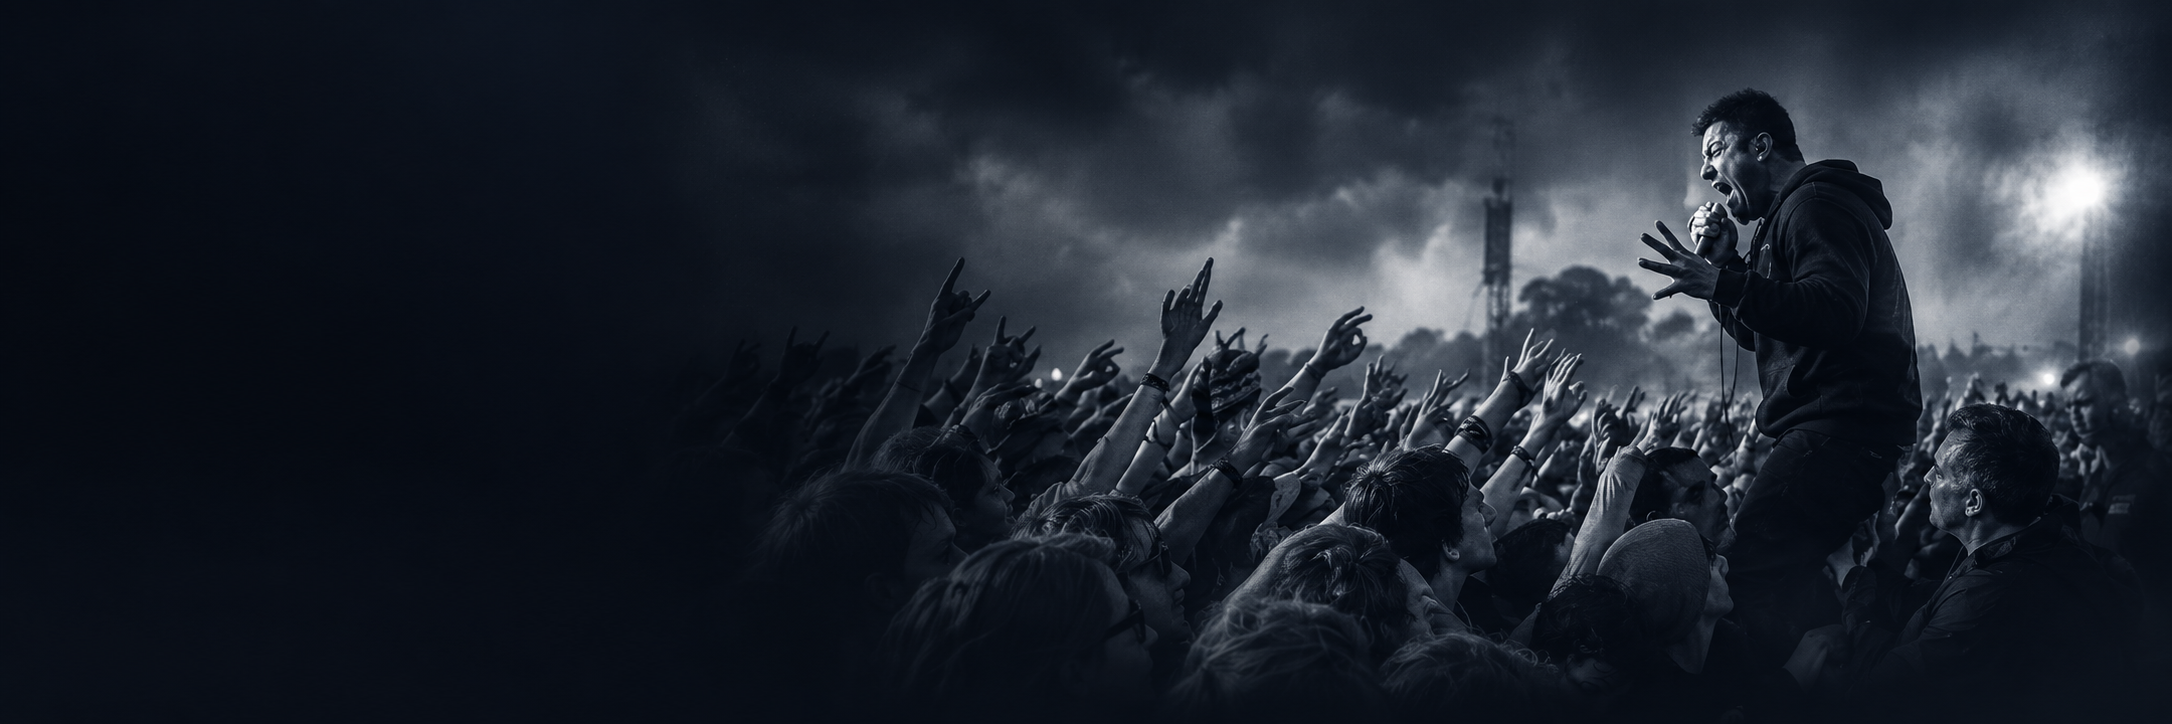
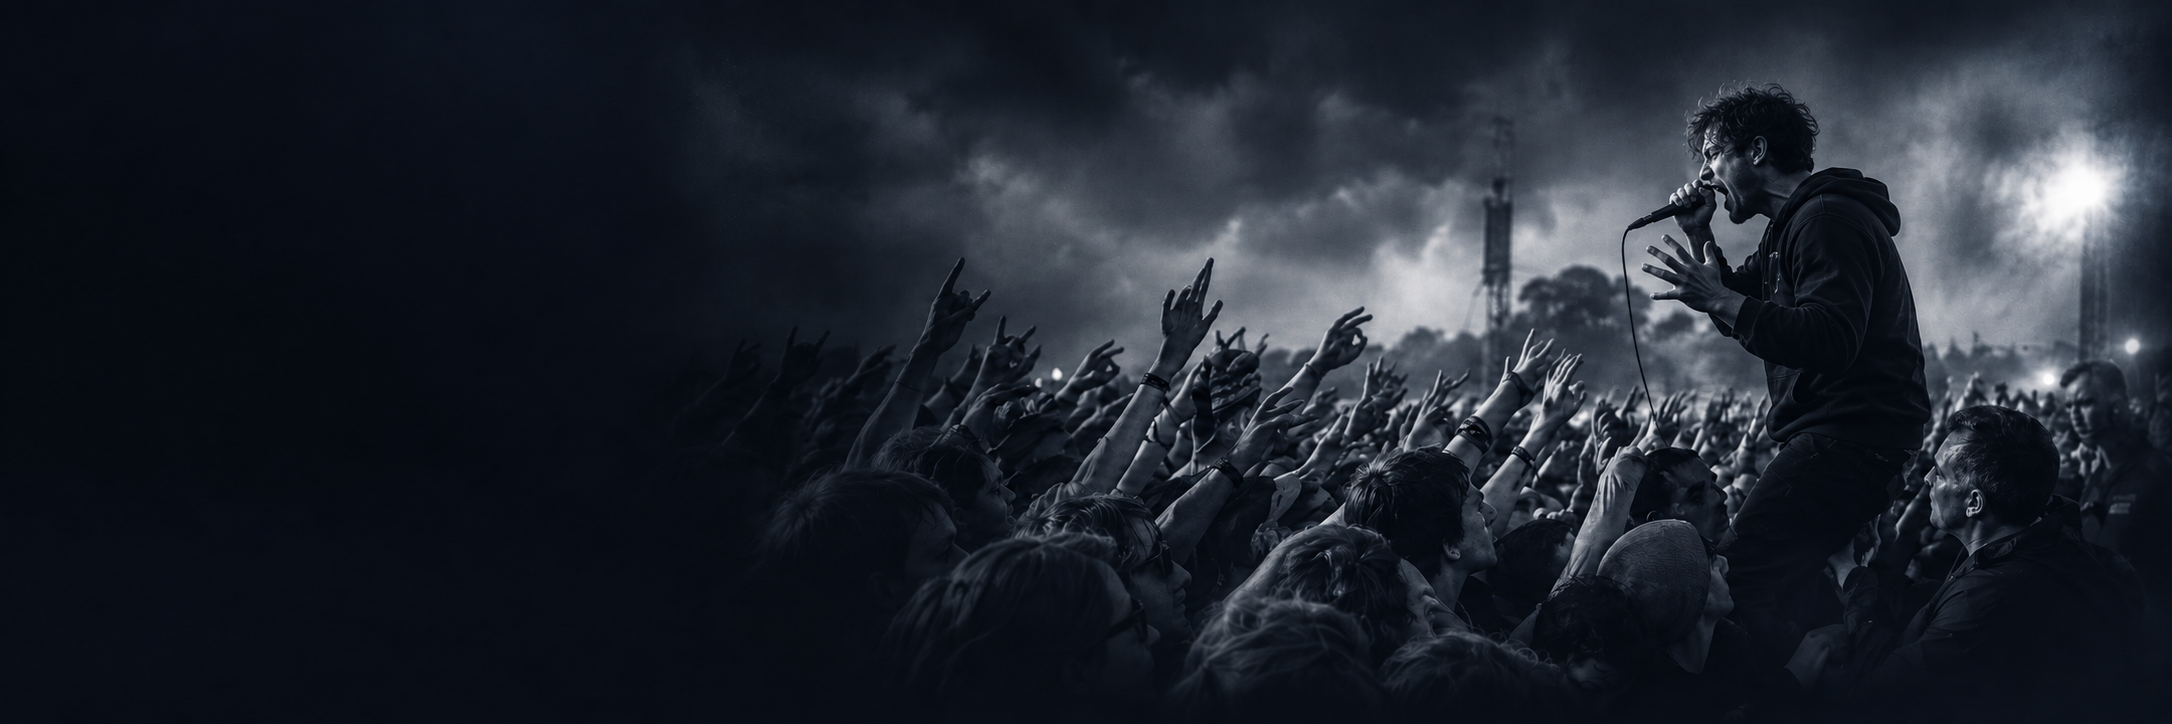
Add files via upload

diff --git a/app.js b/app.js
@@ -3,7 +3,7 @@ let byName = new Map();
 let deferredInstall = null;
 let vibeData = { genres: [], styles: [], moods: [] };
 
-const APP_VERSION = '0.14.0';
+const APP_VERSION = '0.15.1';
 const storeKey = 'atm-mobile-v01'; // Intentionally stable so personal data survives app updates.
 const artworkCacheKey = 'atm-mobile-artwork-v2';
 const ARTWORK_ENDPOINT = 'https://atm-artwork.zanderiii88.workers.dev/';
@@ -41,6 +41,14 @@ state.vibe = { genres: [], styles: [], moods: [], ...(state.vibe || {}) };
 state.listSort = { favourite: 'az', explore: 'az', ...(state.listSort || {}) };
 state.searchRecent = Array.isArray(state.searchRecent) ? state.searchRecent : [];
 if (!state.searchRecent.length && Array.isArray(state.recent)) state.searchRecent = state.recent.filter(x => x.action === 'discover').map(x => x.artist).slice(0, 12);
+const legacyMusicForLabels = {
+  'Need to Calm Down': 'Calm Down',
+  'Need to Wake Up': 'Wake Up',
+  'Getting Hyped': 'Get Hyped',
+  'Getting Ready to Go Out': 'Going Out',
+  'That First Coffee': 'First Coffee',
+};
+state.musicForPreset = legacyMusicForLabels[state.musicForPreset] || state.musicForPreset || '';
 
 let artworkCache = loadArtworkCache();
 const artworkPending = new Map();
@@ -315,7 +323,7 @@ function homeCatalogueCard(count) {
 }
 function whatsNewCard() {
   if (state.whatsNewDismissed === APP_VERSION) return '';
-  return `<section class="section whats-new-card"><button id="dismissWhatsNew" class="whats-new-dismiss" type="button" aria-label="Dismiss What’s New">×</button><div class="whats-new-copy"><div class="whats-new-kicker"><span class="new-badge">NEW</span><span>ATM Mixtapes</span></div><h2>Now on YouTube Music + Spotify.</h2><p>Road Trip mixtapes sit alongside <b>Head Nodding</b>, <b>Pop Rocks</b>, <b>Air Guitar</b> and <b>Aotearoa Calling</b> inside <b>Music For...</b>.</p></div><button id="whatsNewPlaylists" class="btn primary whats-new-action">Explore ATM Mixtapes →</button></section>`;
+  return `<section class="section whats-new-card"><button id="dismissWhatsNew" class="whats-new-dismiss" type="button" aria-label="Dismiss What’s New">×</button><div class="whats-new-copy"><div class="whats-new-kicker"><span class="new-badge">NEW</span><span>More ATM Mixtapes</span></div><h2>Music For... has filled out.</h2><p>Twenty-one more moments now have curated <b>YouTube Music</b> and <b>Spotify</b> mixtapes, including <b>Dancing… In The Pit</b>.</p></div><button id="whatsNewPlaylists" class="btn primary whats-new-action">Explore Music For... →</button></section>`;
 }
 
 function home() {
@@ -670,26 +678,27 @@ const musicForPresets = [
   { group: 'ATM Playlists', label: 'Pop Rocks', blurb: 'Pop-rock throwbacks with big hooks, bright guitars and an 80s-to-early-2000s streak.', target: { energy: 7, aggression: 4, darkness: 3, rhythm: 7, accessibility: 9, organic_electronic: 3 }, genres: ['Rock', 'Pop'], words: ['pop rock', 'power pop', 'alternative rock', 'new wave', 'britpop', 'pop punk', 'arena rock'], youtubePlaylist: 'https://music.youtube.com/playlist?list=PLb968UxgeDzU', spotifyPlaylist: 'https://open.spotify.com/playlist/4GVd8XkKRF6kVAnMvZodvJ', strictGenre: true },
   { group: 'ATM Playlists', label: 'Air Guitar', blurb: 'Riffs, solos and guitar-heavy rock built for playing along without an instrument.', target: { energy: 8, aggression: 6, darkness: 4, rhythm: 7, accessibility: 7, organic_electronic: 2 }, genres: ['Rock', 'Metal', 'Punk / Hardcore'], words: ['hard rock', 'classic rock', 'alternative rock', 'heavy metal', 'guitar', 'riff', 'arena rock', 'grunge'], youtubePlaylist: 'https://music.youtube.com/playlist?list=PLPDABf3UHXhA', spotifyPlaylist: 'https://open.spotify.com/playlist/2HV2nOpWIISYgNTsRWsurE', strictGenre: true },
   { group: 'ATM Playlists', label: 'Aotearoa Calling', blurb: 'An ATM-curated trip through music from Aotearoa New Zealand, across eras and styles.', youtubePlaylist: 'https://music.youtube.com/playlist?list=PLFTCcEuVOWik', spotifyPlaylist: 'https://open.spotify.com/playlist/7BXylCipqY8eoimCvPAJbD', playlistOnly: true },
-  { group: 'Time & place', label: 'Rainy Days', blurb: 'Reflective, textured and a little grey around the edges.', target: { energy: 4, darkness: 6, accessibility: 6 }, words: ['reflective', 'melancholic', 'atmospheric', 'dream', 'intimate'] },
-  { group: 'Time & place', label: 'Sunday Morning', blurb: 'Warm, unhurried listening for a slower start.', target: { energy: 3, aggression: 1, darkness: 3, accessibility: 7 }, words: ['warm', 'gentle', 'serene', 'laid-back', 'soul', 'folk'] },
-  { group: 'Time & place', label: '3AM', blurb: 'Nocturnal, inward-looking and slightly strange.', target: { energy: 4, darkness: 8, experimental: 7 }, words: ['nocturnal', 'hypnotic', 'ambient', 'dream', 'introspective'] },
-  { group: 'Time & place', label: 'Drifting Off', blurb: 'Very quiet, soft-edged ambient music for letting the day disappear.', target: { energy: 1, aggression: 1, darkness: 3, experimental: 6, rhythm: 2, organic_electronic: 9 }, genres: ['Electronic'], words: ['ambient', 'drone', 'minimal', 'serene', 'meditative', 'gentle', 'quiet'] },
-  { group: 'Time & place', label: 'Sunset', blurb: 'Glowing, spacious music for the end of the day.', target: { energy: 5, darkness: 3, accessibility: 7 }, words: ['warm', 'dreamy', 'serene', 'lush', 'psychedelic'] },
-  { group: 'Time & place', label: 'Night Driving', blurb: 'Propulsive, cinematic and built for lights passing by.', target: { energy: 7, darkness: 6, rhythm: 8, organic_electronic: 8 }, words: ['nocturnal', 'driving', 'synth', 'electronic', 'cinematic'] },
-  { group: 'Going out', label: 'Getting Ready to Go Out', blurb: 'Confident, bright and steadily raising the temperature.', target: { energy: 8, rhythm: 8, accessibility: 8 }, words: ['confident', 'euphoric', 'dance', 'pop', 'funk'] },
-  { group: 'Going out', label: 'After the Party', blurb: 'The comedown: hazy, tender and quietly nocturnal.', target: { energy: 3, darkness: 6, accessibility: 6 }, words: ['hazy', 'intimate', 'melancholic', 'nocturnal', 'ambient'] },
-  { group: 'Time & place', label: 'That First Coffee', blurb: 'A gentle lift before the day properly begins.', target: { energy: 5, aggression: 1, darkness: 2, accessibility: 8 }, words: ['warm', 'playful', 'soulful', 'bright', 'acoustic'] },
-  { group: 'Heart stuff', label: 'Heartbreak', blurb: 'Songs for the raw bit, the reflective bit and everything after.', target: { energy: 4, darkness: 7, accessibility: 8 }, words: ['heartbreak', 'melancholic', 'romantic', 'vulnerable', 'sad'] },
-  { group: 'Heart stuff', label: 'Falling in Love', blurb: 'Warm, open-hearted and a little bit giddy.', target: { energy: 6, darkness: 2, accessibility: 8 }, words: ['romantic', 'joyful', 'warm', 'dreamy', 'euphoric'] },
-  { group: 'Heart stuff', label: '"Bedtime" 😉', blurb: 'Low-lit, intimate and decidedly not about going straight to sleep.', target: { energy: 4, aggression: 1, darkness: 5, rhythm: 6, accessibility: 8 }, words: ['sensual', 'sultry', 'intimate', 'romantic', 'r&b', 'neo-soul', 'trip hop', 'downtempo'] },
-  { group: 'Heart stuff', label: 'Moping', blurb: 'Low-energy company for leaning into it.', target: { energy: 2, darkness: 7, accessibility: 7 }, words: ['melancholic', 'sad', 'intimate', 'reflective', 'slow'] },
-  { group: 'Heart stuff', label: 'Brooding', blurb: 'Dark, tense and deliberate rather than defeated.', target: { energy: 5, aggression: 5, darkness: 9 }, words: ['brooding', 'dark', 'ominous', 'tense', 'gothic'] },
-  { group: 'Change the energy', label: 'Need to Wake Up', blurb: 'Immediate, bright and hard to sleep through.', target: { energy: 9, rhythm: 8, accessibility: 8 }, words: ['energetic', 'urgent', 'bright', 'punk', 'dance'] },
-  { group: 'Change the energy', label: 'Need to Calm Down', blurb: 'Soft edges, low intensity and room to breathe.', target: { energy: 2, aggression: 1, darkness: 3 }, words: ['calm', 'serene', 'ambient', 'gentle', 'minimal'] },
-  { group: 'Change the energy', label: 'Getting Hyped', blurb: 'Big energy, momentum and zero interest in subtlety.', target: { energy: 10, aggression: 8, rhythm: 9 }, words: ['hype', 'intense', 'triumphant', 'rap', 'metal'] },
-  { group: 'Dancing', label: 'Dancing… to Pop', blurb: 'Hooks first: glossy, immediate and properly danceable.', target: { energy: 8, rhythm: 9, accessibility: 9 }, genres: ['Pop'], words: ['dance-pop', 'electropop', 'synthpop', 'disco'] },
-  { group: 'Dancing', label: 'Dancing… to Funk & Disco', blurb: 'Basslines, groove and a bit of sparkle.', target: { energy: 8, rhythm: 10, accessibility: 8 }, words: ['funk', 'disco', 'boogie', 'soul'] },
-  { group: 'Dancing', label: 'Dancing… to House', blurb: 'Four-on-the-floor movement from warm to euphoric.', target: { energy: 8, rhythm: 10, organic_electronic: 9 }, words: ['house', 'garage', 'club', 'dance'] },
+  { group: 'Time & place', label: 'Rainy Days', blurb: 'Reflective, textured and a little grey around the edges.', target: { energy: 4, darkness: 6, accessibility: 6 }, words: ['reflective', 'melancholic', 'atmospheric', 'dream', 'intimate'], youtubePlaylist: 'https://music.youtube.com/playlist?list=PLXIBtIFPFEkw', spotifyPlaylist: 'https://open.spotify.com/playlist/0jlP53sNEcvLtI2ISicFFG' },
+  { group: 'Time & place', label: 'Sunday Morning', blurb: 'Warm, unhurried listening for a slower start.', target: { energy: 3, aggression: 1, darkness: 3, accessibility: 7 }, words: ['warm', 'gentle', 'serene', 'laid-back', 'soul', 'folk'], youtubePlaylist: 'https://music.youtube.com/playlist?list=PLH1M4H7OxG-U', spotifyPlaylist: 'https://open.spotify.com/playlist/0PIPElihWPa8jQgHNjny7m' },
+  { group: 'Time & place', label: '3AM', blurb: 'Nocturnal, inward-looking and slightly strange.', target: { energy: 4, darkness: 8, experimental: 7 }, words: ['nocturnal', 'hypnotic', 'ambient', 'dream', 'introspective'], youtubePlaylist: 'https://music.youtube.com/playlist?list=PLfBhUHe4j7uM', spotifyPlaylist: 'https://open.spotify.com/playlist/2x0TavgHYPezi8ct1ckqJG' },
+  { group: 'Time & place', label: 'Drifting Off', blurb: 'Very quiet, soft-edged ambient music for letting the day disappear.', target: { energy: 1, aggression: 1, darkness: 3, experimental: 6, rhythm: 2, organic_electronic: 9 }, genres: ['Electronic'], words: ['ambient', 'drone', 'minimal', 'serene', 'meditative', 'gentle', 'quiet'], youtubePlaylist: 'https://music.youtube.com/playlist?list=PLU1EIlMLfFoU', spotifyPlaylist: 'https://open.spotify.com/playlist/5jIWeJI5Ip5vWFqP8vkxvd' },
+  { group: 'Time & place', label: 'Sunset', blurb: 'Glowing, spacious music for the end of the day.', target: { energy: 5, darkness: 3, accessibility: 7 }, words: ['warm', 'dreamy', 'serene', 'lush', 'psychedelic'], youtubePlaylist: 'https://music.youtube.com/playlist?list=PLNRDgrhWkjWM', spotifyPlaylist: 'https://open.spotify.com/playlist/4Vxa1uppKCtBUeuaOXR2x5' },
+  { group: 'Time & place', label: 'Night Driving', blurb: 'Propulsive, cinematic and built for lights passing by.', target: { energy: 7, darkness: 6, rhythm: 8, organic_electronic: 8 }, words: ['nocturnal', 'driving', 'synth', 'electronic', 'cinematic'], youtubePlaylist: 'https://music.youtube.com/playlist?list=PLMUTDGCHNHc0', spotifyPlaylist: 'https://open.spotify.com/playlist/5b433sEfE631EDBaUcmX75' },
+  { group: 'Going out', label: 'Going Out', blurb: 'Confident, bright and steadily raising the temperature.', target: { energy: 8, rhythm: 8, accessibility: 8 }, words: ['confident', 'euphoric', 'dance', 'pop', 'funk'], youtubePlaylist: 'https://music.youtube.com/playlist?list=PLGY6Thj4wXms', spotifyPlaylist: 'https://open.spotify.com/playlist/1VBk3tROqwzFbuGd1yycOr' },
+  { group: 'Going out', label: 'After the Party', blurb: 'The comedown: hazy, tender and quietly nocturnal.', target: { energy: 3, darkness: 6, accessibility: 6 }, words: ['hazy', 'intimate', 'melancholic', 'nocturnal', 'ambient'], youtubePlaylist: 'https://music.youtube.com/playlist?list=PLamfhN9vN29Q', spotifyPlaylist: 'https://open.spotify.com/playlist/3ZB7JWgZ06Z7AoFhtktVJc' },
+  { group: 'Time & place', label: 'First Coffee', blurb: 'A gentle lift before the day properly begins.', target: { energy: 5, aggression: 1, darkness: 2, accessibility: 8 }, words: ['warm', 'playful', 'soulful', 'bright', 'acoustic'], youtubePlaylist: 'https://music.youtube.com/playlist?list=PLJ81m9FfymXI', spotifyPlaylist: 'https://open.spotify.com/playlist/43GUo3NuEkjz0wEGMlDAI5' },
+  { group: 'Heart stuff', label: 'Heartbreak', blurb: 'Songs for the raw bit, the reflective bit and everything after.', target: { energy: 4, darkness: 7, accessibility: 8 }, words: ['heartbreak', 'melancholic', 'romantic', 'vulnerable', 'sad'], youtubePlaylist: 'https://music.youtube.com/playlist?list=PLXTamMNqlNmg', spotifyPlaylist: 'https://open.spotify.com/playlist/3dP40tDl9y2qMTttceygLE' },
+  { group: 'Heart stuff', label: 'Falling in Love', blurb: 'Warm, open-hearted and a little bit giddy.', target: { energy: 6, darkness: 2, accessibility: 8 }, words: ['romantic', 'joyful', 'warm', 'dreamy', 'euphoric'], youtubePlaylist: 'https://music.youtube.com/playlist?list=PLVmAQ-_0-4ss', spotifyPlaylist: 'https://open.spotify.com/playlist/3g0S4GpE0RgZpkcSXUVvNI' },
+  { group: 'Heart stuff', label: '"Bedtime" 😉', blurb: 'Low-lit, intimate and decidedly not about going straight to sleep.', target: { energy: 4, aggression: 1, darkness: 5, rhythm: 6, accessibility: 8 }, words: ['sensual', 'sultry', 'intimate', 'romantic', 'r&b', 'neo-soul', 'trip hop', 'downtempo'], youtubePlaylist: 'https://music.youtube.com/playlist?list=PLdK4ir7TI1-E', spotifyPlaylist: 'https://open.spotify.com/playlist/2BTHOrlVO5IBTLSabjfBrO' },
+  { group: 'Heart stuff', label: 'Moping', blurb: 'Low-energy company for leaning into it.', target: { energy: 2, darkness: 7, accessibility: 7 }, words: ['melancholic', 'sad', 'intimate', 'reflective', 'slow'], youtubePlaylist: 'https://music.youtube.com/playlist?list=PLdAlAvVNzOPs', spotifyPlaylist: 'https://open.spotify.com/playlist/51Ru63cQEuN6uErS2iKHWD' },
+  { group: 'Heart stuff', label: 'Brooding', blurb: 'Dark, tense and deliberate rather than defeated.', target: { energy: 5, aggression: 5, darkness: 9 }, words: ['brooding', 'dark', 'ominous', 'tense', 'gothic'], youtubePlaylist: 'https://music.youtube.com/playlist?list=PLcHkTY80cb6Y', spotifyPlaylist: 'https://open.spotify.com/playlist/2GeU36D63Nc5Lv7Gtkey9h' },
+  { group: 'Change the energy', label: 'Wake Up', blurb: 'Immediate, bright and hard to sleep through.', target: { energy: 9, rhythm: 8, accessibility: 8 }, words: ['energetic', 'urgent', 'bright', 'punk', 'dance'], youtubePlaylist: 'https://music.youtube.com/playlist?list=PLLYqMET6grw0', spotifyPlaylist: 'https://open.spotify.com/playlist/2R4BfI4Cm1jCTiLjQf3MTQ' },
+  { group: 'Change the energy', label: 'Calm Down', blurb: 'Soft edges, low intensity and room to breathe.', target: { energy: 2, aggression: 1, darkness: 3 }, words: ['calm', 'serene', 'ambient', 'gentle', 'minimal'], youtubePlaylist: 'https://music.youtube.com/playlist?list=PLb_wPPgL3O6M', spotifyPlaylist: 'https://open.spotify.com/playlist/24PlChrzkAXye37T6pp1bT' },
+  { group: 'Change the energy', label: 'Get Hyped', blurb: 'Big energy, momentum and zero interest in subtlety.', target: { energy: 10, aggression: 8, rhythm: 9 }, words: ['hype', 'intense', 'triumphant', 'rap', 'metal'], youtubePlaylist: 'https://music.youtube.com/playlist?list=PLftVXCtkJKmw', spotifyPlaylist: 'https://open.spotify.com/playlist/6GlldHLXteTEiBKx3pTO5k' },
+  { group: 'Dancing', label: 'Dancing… In The Pit', blurb: 'Heavy, physical and built for the part where standing still is no longer an option.', target: { energy: 10, aggression: 10, darkness: 7, rhythm: 9, accessibility: 6, organic_electronic: 2 }, genres: ['Punk / Hardcore', 'Metal', 'Rock'], words: ['hardcore', 'metalcore', 'post-hardcore', 'crossover thrash', 'nu metal', 'mosh', 'breakdown', 'heavy', 'aggressive'], youtubePlaylist: 'https://music.youtube.com/playlist?list=PLectVW8n-XR0', spotifyPlaylist: 'https://open.spotify.com/playlist/132GxRl7lrvqgGnFeubZed', strictGenre: true },
+  { group: 'Dancing', label: 'Dancing… to Pop', blurb: 'Hooks first: glossy, immediate and properly danceable.', target: { energy: 8, rhythm: 9, accessibility: 9 }, genres: ['Pop'], words: ['dance-pop', 'electropop', 'synthpop', 'disco'], youtubePlaylist: 'https://music.youtube.com/playlist?list=PLFYfnyjPL6ZI', spotifyPlaylist: 'https://open.spotify.com/playlist/1iB2W0wICxf9IP9Zu9WEIG' },
+  { group: 'Dancing', label: 'Dancing… to Funk & Disco', blurb: 'Basslines, groove and a bit of sparkle.', target: { energy: 8, rhythm: 10, accessibility: 8 }, words: ['funk', 'disco', 'boogie', 'soul'], youtubePlaylist: 'https://music.youtube.com/playlist?list=PLAU_yWQtXAas', spotifyPlaylist: 'https://open.spotify.com/playlist/17IzkXGncXT1K0jBfvKB4E' },
+  { group: 'Dancing', label: 'Dancing… to House', blurb: 'Four-on-the-floor movement from warm to euphoric.', target: { energy: 8, rhythm: 10, organic_electronic: 9 }, words: ['house', 'garage', 'club', 'dance'], youtubePlaylist: 'https://music.youtube.com/playlist?list=PLDABf280JPpA', spotifyPlaylist: 'https://open.spotify.com/playlist/6zOBDliO0Y3vnt27aGkIYJ' },
 ];
 
 function musicForScore(a, preset) { return profilePresetScore(a, preset); }
@@ -728,7 +737,7 @@ function musicForAlphaKey(label) {
   return String(label || '').replace(/^[^A-Za-z0-9]+/, '').toLocaleLowerCase();
 }
 function musicForDisplayGroup(preset) {
-  if (['"Bedtime" 😉', 'Drifting Off', 'Getting Hyped', 'Need to Calm Down', 'Need to Wake Up'].includes(preset.label)) return 'Energy';
+  if (['"Bedtime" 😉', 'Drifting Off', 'Get Hyped', 'Calm Down', 'Wake Up'].includes(preset.label)) return 'Energy';
   const map = {
     'ATM Playlists': 'ATM Mixtapes',
     'Road Trips': 'Road Trip',
@@ -755,7 +764,7 @@ function musicFor() {
     const groupPresets = musicForPresets.filter(p => musicForDisplayGroup(p) === group).sort((a, b) => musicForAlphaKey(a.label).localeCompare(musicForAlphaKey(b.label), undefined, { numeric: true }));
     const playlistGroup = groupPresets.some(hasPlaylist);
     const selectedInGroup = groupPresets.some(p => p.label === selectedLabel);
-    return `<details class="occasion-group ${playlistGroup ? 'roadtrip-group' : ''}" data-occasion-group="${attr(group)}" ${(playlistGroup || selectedInGroup) ? 'open' : ''}><summary class="occasion-group-head"><div><div class="eyebrow">${esc(group)}</div><small>${groupPresets.length} option${groupPresets.length === 1 ? '' : 's'}</small></div><div class="occasion-summary-meta">${playlistGroup ? '<span class="roadtrip-service">YouTube Music + Spotify</span>' : '<span class="recommendation-service">ATM recommendations</span>'}<i>⌄</i></div></summary><div class="occasion-grid occasion-group-grid">${groupPresets.map(p => `<button class="occasion-card ${selectedLabel === p.label ? 'active' : ''}" data-occasion="${attr(p.label)}"><b>${esc(p.label)}</b><span>${esc(p.blurb)}</span>${hasPlaylist(p) ? '<small class="occasion-playlist-note">▶ ATM mixtape · YouTube + Spotify</small>' : ''}</button>`).join('')}</div></details>`;
+    return `<details class="occasion-group ${playlistGroup ? 'roadtrip-group' : ''}" data-occasion-group="${attr(group)}" ${selectedInGroup ? 'open' : ''}><summary class="occasion-group-head"><div><div class="eyebrow">${esc(group)}</div><small>${groupPresets.length} option${groupPresets.length === 1 ? '' : 's'}</small></div><div class="occasion-summary-meta">${playlistGroup ? '<span class="roadtrip-service">YouTube Music + Spotify</span>' : '<span class="recommendation-service">ATM recommendations</span>'}<i>⌄</i></div></summary><div class="occasion-grid occasion-group-grid">${groupPresets.map(p => `<button class="occasion-card ${selectedLabel === p.label ? 'active' : ''}" data-occasion="${attr(p.label)}"><b>${esc(p.label)}</b><span>${esc(p.blurb)}</span>${hasPlaylist(p) ? '<small class="occasion-playlist-note">▶ ATM mixtape · YouTube + Spotify</small>' : ''}</button>`).join('')}</div></details>`;
   }).join('');
   let results = '';
   if (selected) {
@@ -876,7 +885,7 @@ async function restorePersonalData(file) {
       state.vibePreset = data.vibe.preset || '';
     }
     if (data.musicFor) {
-      state.musicForPreset = data.musicFor.preset || '';
+      state.musicForPreset = legacyMusicForLabels[data.musicFor.preset] || data.musicFor.preset || '';
       state.musicForMode = data.musicFor.mode || 'ranked';
       state.musicForShuffleSeed = 0;
     }

diff --git a/index.html b/index.html
@@ -7,7 +7,7 @@
   <meta name="apple-mobile-web-app-capable" content="yes" />
   <meta name="mobile-web-app-capable" content="yes" />
   <title>ATM · Artists That Matter</title>
-  <meta name="description" content="ATM Mobile v0.14.0 · personal music discovery across 2,500 artists." />
+  <meta name="description" content="ATM Mobile v0.15.1 · personal music discovery across 2,500 artists." />
   <meta property="og:title" content="ATM · Artists That Matter" />
   <meta property="og:description" content="Find artist matches, explore by vibe, or choose music for the moment you need it." />
   <link rel="manifest" href="manifest.webmanifest" />

diff --git a/sw.js b/sw.js
@@ -1,4 +1,4 @@
-const CACHE='atm-mobile-v0140';
+const CACHE='atm-mobile-v0151';
 const CORE=['./','index.html','styles.css','engine.js','app.js','catalog.json','artwork.json','manifest.webmanifest','assets/icon-v04-192.png','assets/icon-v04-512.png','assets/icon-maskable-v04-192.png','assets/icon-maskable-v04-512.png','assets/banner_crowd.png'];
 self.addEventListener('install',e=>e.waitUntil(caches.open(CACHE).then(c=>c.addAll(CORE)).then(()=>self.skipWaiting())));
 self.addEventListener('activate',e=>e.waitUntil(caches.keys().then(keys=>Promise.all(keys.filter(k=>k!==CACHE).map(k=>caches.delete(k)))).then(()=>self.clients.claim())));

diff --git a/RELEASE_NOTES_v0.15.0.md b/RELEASE_NOTES_v0.15.0.md
@@ -1,0 +1,25 @@
+# ATM Mobile v0.15.0
+
+Released: 2026-09-17
+
+## Music For... mixtape expansion
+- Added YouTube Music and Spotify links to all 20 newly curated Music For... selections supplied for this release.
+- Shortened five labels for cleaner scanning: **Calm Down**, **Wake Up**, **Get Hyped**, **Going Out**, and **First Coffee**.
+- Existing saved selections and imported backups using the previous labels migrate to the new names automatically.
+- Added **Dancing… In The Pit** as a new recommendation-only Dancing option for hardcore, metalcore, post-hardcore, nu-metal, crossover and other mosh-friendly heavy music.
+- All Music For... headings now start collapsed. After a user selects an option, that option’s parent section remains open while results are shown.
+- Playlist URLs are stored without service tracking parameters.
+
+## Home artwork
+- Replaced the concert header banner with the approved alternate version. It preserves the dark monochrome crowd composition while changing the vocalist’s hair/profile so the figure reads as a more generic performer.
+
+## Home / What’s New
+- Refreshed the dismissible What’s New card to highlight the expanded Music For... mixtape library and Dancing… In The Pit.
+
+## Preserved
+- Six-button bottom navigation remains unchanged, including **Lucky**.
+- Catalogue remains at **2,500 artists**.
+- Similarity and recommendation logic are unchanged except for the new Dancing… In The Pit preset.
+- Existing Road Trip and standalone ATM Mixtape links are unchanged.
+- Personal data continues to use the stable `atm-mobile-v01` storage key.
+- v0.12.1 mobile performance improvements and v0.14.0 usability cleanup are retained.

diff --git a/RELEASE_NOTES_v0.15.1.md b/RELEASE_NOTES_v0.15.1.md
@@ -1,0 +1,18 @@
+# ATM Mobile v0.15.1
+
+## Dancing… In The Pit mixtape patch
+
+- Added the new ATM-curated **Dancing… In The Pit** playlist links.
+- YouTube Music: `https://music.youtube.com/playlist?list=PLectVW8n-XR0`
+- Spotify: `https://open.spotify.com/playlist/132GxRl7lrvqgGnFeubZed`
+- The existing Dancing… In The Pit recommendation profile is unchanged.
+- Updated the What’s New wording to reflect that all 21 newly expanded Music For... moments now have curated playlist support.
+
+## Preserved
+
+- Catalogue remains at **2,500 artists**.
+- All other Music For... names, recommendation profiles and playlist links are unchanged.
+- All Music For... headings still start collapsed.
+- Six-button bottom navigation is unchanged.
+- Home banner is unchanged from v0.15.0.
+- Personal data continues to use the stable localStorage key `atm-mobile-v01`.
